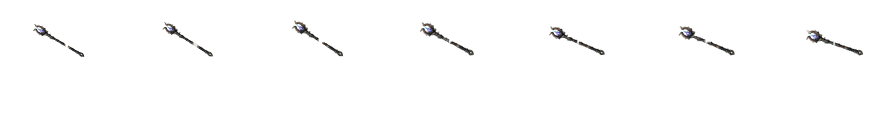
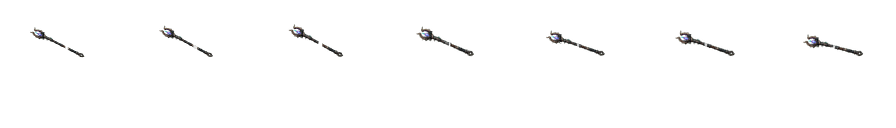
Fix remaining equipment directions and hide offhands

diff --git a/character_pipeline/render_remaining_equipment_layers.py b/character_pipeline/render_remaining_equipment_layers.py
@@ -8,8 +8,8 @@ type uses semantic anchors suited to its actual motion:
   string and arrow are retained;
 * staff: fixed butt/grip and spell-head identity;
 * shield: stable two-axis shield plane with temporal orientation continuity;
-* codex: a deliberately floating off-hand spell focus, following the spell
-  body's off-hand side rather than pretending to be a melee weapon.
+Off-hand presentation is intentionally excluded. The demo only renders the
+equipment family currently being exercised.
 """
 
 from __future__ import annotations
@@ -17,7 +17,7 @@ from __future__ import annotations
 from pathlib import Path
 
 import numpy as np
-from PIL import Image, ImageFilter
+from PIL import Image, ImageDraw, ImageFilter
 
 
 ROOT = Path(__file__).resolve().parents[1]
@@ -70,14 +70,6 @@ SPECS = {
             "shield_bash",
         ),
         "kind": "shield",
-    },
-    "field_codex": {
-        "template": "standard_echo_staff",
-        "template_prefix": "standard_staff",
-        "prefix": "field_codex",
-        "source_index": 3,
-        "actions": ("spell_enter", "spell_idle", "spell_shoot", "spell_exit"),
-        "kind": "codex",
     },
 }
 
@@ -260,9 +252,16 @@ def render_bow(
     reference: Image.Image,
     body: Image.Image,
     previous_axis: np.ndarray | None,
+    direction: str,
 ) -> tuple[Image.Image, np.ndarray]:
     cleaned, source = bow_source(icon)
     target, retained = bow_target(reference, previous_axis)
+    source = list(source)
+    # The inventory icon is painted from one side. When the character faces
+    # right its limb curvature must be mirrored around the grip axis so the
+    # string remains on the archer side and the bow belly faces the target.
+    if direction == "right":
+        source[2] = -source[2]
     transformed = affine_equipment(
         cleaned,
         *source,
@@ -351,9 +350,15 @@ def render_staff(
     icon: Image.Image,
     reference: Image.Image,
     body: Image.Image,
+    direction: str,
 ) -> Image.Image:
-    source = staff_basis(icon, True)
+    source = list(staff_basis(icon, True))
     target = staff_basis(reference, False)
+    # Preserve head/butt identity while mirroring the asymmetric spell-head
+    # ornament for the left view. Reversing the major axis would put the focus
+    # behind the character, so only the cross-shaft handedness is changed.
+    if direction == "left":
+        source[2] = -source[2]
     transformed = affine_equipment(
         icon,
         *source,
@@ -381,6 +386,7 @@ def render_shield(
     reference: Image.Image,
     body: Image.Image,
     previous_axis: np.ndarray | None,
+    direction: str,
 ) -> tuple[Image.Image, np.ndarray]:
     source = oriented_pca(opaque_points(icon))
     target = oriented_pca(opaque_points(reference), previous_axis)
@@ -393,62 +399,51 @@ def render_shield(
         target[3] * 1.14,
         target[4] * 1.12,
     )
+    if direction == "back":
+        # A rear-facing character exposes the inside of the shield to the
+        # camera. Repaint the transformed face as a subdued inner plate and
+        # add two clipped grip straps instead of showing the exterior emblem.
+        rgba = np.asarray(transformed).copy()
+        alpha = rgba[:, :, 3]
+        luminance = rgba[:, :, :3].mean(axis=2)
+        rgba[:, :, 0] = np.where(alpha > 0, 34 + luminance * 0.18, 0)
+        rgba[:, :, 1] = np.where(alpha > 0, 37 + luminance * 0.16, 0)
+        rgba[:, :, 2] = np.where(alpha > 0, 40 + luminance * 0.14, 0)
+        transformed = Image.fromarray(rgba.astype(np.uint8), mode="RGBA")
+        straps = Image.new("RGBA", (FRAME_SIZE, FRAME_SIZE))
+        draw = ImageDraw.Draw(straps)
+        for offset in (-target[3] * 0.16, target[3] * 0.13):
+            strap_center = target[0] + target[1] * offset
+            start = strap_center - target[2] * target[4] * 0.28
+            end = strap_center + target[2] * target[4] * 0.28
+            draw.line(
+                (tuple(start), tuple(end)),
+                fill=(91, 72, 55, 235),
+                width=3,
+            )
+        strap_alpha = np.minimum(
+            np.asarray(straps.getchannel("A"), dtype=np.uint8),
+            alpha,
+        )
+        straps.putalpha(Image.fromarray(strap_alpha, mode="L"))
+        transformed.alpha_composite(straps)
     transformed = visibility_clip(transformed, reference, body, 13)
+    if direction == "back":
+        # In the rear view the forearm and hand sit between the camera and the
+        # shield interior. Keep body pixels in front instead of letting the
+        # equipment layer cover the head/arm as the old exterior layer did.
+        body_alpha = np.asarray(body.getchannel("A"), dtype=np.uint8)
+        alpha = np.asarray(transformed.getchannel("A"), dtype=np.uint8)
+        transformed.putalpha(
+            Image.fromarray(
+                np.where(body_alpha < 24, alpha, 0).astype(np.uint8),
+                mode="L",
+            )
+        )
     points = opaque_points(transformed)
     if float(np.linalg.norm(points.mean(axis=0) - target[0])) > 5.0:
         raise RuntimeError("Shield plane detached from the left-hand guard")
     return transformed, target[1]
-
-
-def render_codex(
-    icon: Image.Image,
-    reference: Image.Image,
-    body: Image.Image,
-    direction: str,
-    frame_index: int,
-) -> Image.Image:
-    body_points = opaque_points(body)
-    body_center = body_points.mean(axis=0)
-    # Direction-specific off-hand side. A tiny deterministic vertical float
-    # keeps the codex alive without inventing a fake hand grip.
-    offsets = {
-        "front": np.array([-24.0, -5.0]),
-        "left": np.array([-18.0, -8.0]),
-        "back": np.array([24.0, -6.0]),
-        "right": np.array([18.0, -8.0]),
-    }
-    float_y = float((frame_index % 8) - 4) * 0.22
-    center = body_center + offsets[direction] + np.array([0.0, float_y])
-    source = oriented_pca(opaque_points(icon))
-    # Keep the cover upright and readable; side views narrow it slightly.
-    major = np.array([0.0, 1.0])
-    minor = np.array([-1.0, 0.0])
-    width = 20.0 if direction in ("front", "back") else 12.0
-    transformed = affine_equipment(
-        icon,
-        *source,
-        center,
-        major,
-        minor,
-        27.0,
-        width,
-    )
-    # The floating book may pass behind the body, but must not be clipped to
-    # the staff silhouette because it is intentionally a separate off-hand.
-    body_alpha = np.asarray(body.getchannel("A"), dtype=np.uint8)
-    alpha = np.asarray(transformed.getchannel("A"), dtype=np.uint8)
-    allowed = np.where(body_alpha < 24, 255, 0).astype(np.uint8)
-    # Preserve a small outer rim at the off-hand contact side.
-    hand_corridor = np.asarray(
-        reference.getchannel("A").filter(ImageFilter.MaxFilter(5)),
-        dtype=np.uint8,
-    )
-    transformed.putalpha(
-        Image.fromarray(np.minimum(alpha, np.maximum(allowed, hand_corridor)), mode="L")
-    )
-    if transformed.getchannel("A").getbbox() is None:
-        raise RuntimeError("Floating codex became fully transparent")
-    return transformed
 
 
 def build_spec(item_id: str, spec: dict) -> int:
@@ -481,18 +476,25 @@ def build_spec(item_id: str, spec: dict) -> int:
                 body_frame = frame_at(body, frame_index, columns, bottom_up)
                 if spec["kind"] == "bow":
                     rendered, previous_axis = render_bow(
-                        icon, ref_frame, body_frame, previous_axis
+                        icon, ref_frame, body_frame, previous_axis, direction
                     )
                 elif spec["kind"] == "staff":
-                    rendered = render_staff(icon, ref_frame, body_frame)
+                    rendered = render_staff(
+                        icon,
+                        ref_frame,
+                        body_frame,
+                        direction,
+                    )
                 elif spec["kind"] == "shield":
                     rendered, previous_axis = render_shield(
-                        icon, ref_frame, body_frame, previous_axis
+                        icon,
+                        ref_frame,
+                        body_frame,
+                        previous_axis,
+                        direction,
                     )
                 else:
-                    rendered = render_codex(
-                        icon, ref_frame, body_frame, direction, frame_index
-                    )
+                    raise RuntimeError(f"Unsupported equipment kind: {spec['kind']}")
                 if rendered.getchannel("A").getbbox() is None:
                     raise RuntimeError(
                         f"Transparent frame: {item_id} {stem}[{frame_index}]"
